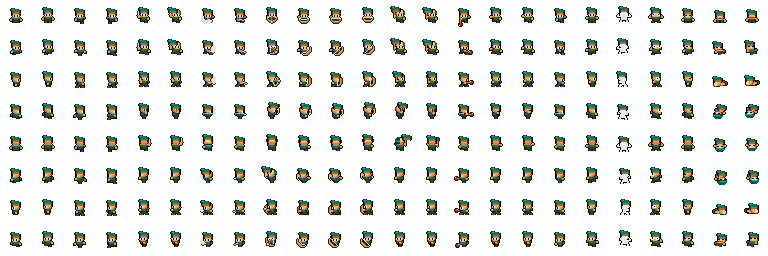
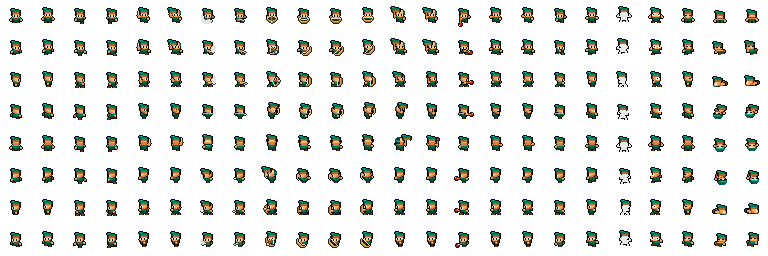
feat(G2): F2 写下的描边规则在 5/10 张表上没成立——132px 变成断言 C，外加它自己漏掉的 12px（断言 D）
`coif_characters.py` 模块 docstring 第 3 条从 F2 起就写着"新加的像素必须自带描边"，
而文件里**没有任何一条断言在查它**。实测它在 5/10 张表上不成立。

## 口径先于数字（这一条比 132 值钱）

裸边只在 **12 个可达帧**（ROWS_USED=(0,1,3) × COLS_USED=(0,1,2,3)）上数，
"外沿"按**本帧 32×32 内**算、越出帧边界也算外沿。
拿整张表扫会得到 9/10 张、**2066 px**——两个数我都复现了。整张表是 768×256 = **192 帧**
（docs/49 §二 写的"768 帧"是错的，768 是像素宽），出货只用 12 帧。
**2066 不是更严格的口径，是量错了对象。**

## 先红后修（判别力证明，不能跳）

未修的树上跑断言 C：**C=132 px / 5 张**，与 docs/49 §二 那张表逐行相同
（Mage-Cyan 72、Archer-Green 24、Mage-Red 12、Warrior-Blue 12、Character-Base 12）。

## 断言 D：C 自己漏掉的一类

C 的"新增像素"限定漏掉了另一类——模板把 base **自己的**描边涂成发色
（阿梅发顶那个"缺口"，#040404 → #54301c，正对着透明），12 px。
alpha 没变所以不算"新增"，但屏幕上一样是没描边的头，而**她同时是 WorldView.FALLBACK_SPRITE**。
⇒ 只按 docs/49 §二 的定义验收，回退皮会带着 12 个裸边过关。

## 剪影：floor 余量是 0，且我确实是照着它挑的画法

最自然的画法（在露出的像素上方补一行描边）会把 **Mage-Cyan ↔ Soldier-Yellow 从 120 压到 96**。
16 种"补描边 / 就地涂色"组合全枚举过：**没有一种能把 floor 抬高**——两对瓶颈是
MC↔SY 与 SB↔SY，而 SB/SY 都不在修复名单上。所以验收 3 只能是"别弄坏"，从来不可能是"改善"。
选中的组合让两对瓶颈**一个像素都没动**（Mage-Cyan 改成就地涂色，alpha 零变化）：

  min 120（并列 2 对，与 F2 交付时同两对） 中位 240→244  最大 480→504
  4 对下降（最低 132 = Character-Base↔Warrior-Blue），19 对上升，22 对不变

⚠ 诚实标注：Character-Base/Warrior-Blue 那两处选 recolor/grow **是为了不新增第三对并列在 120**。
floor 没被突破，但这是照着指标挑的，不是照着画面挑的。

## 眼验（R10）：人看不出来——这是结果不是失败

真机管线出图（docker gamecraft-runner:4.6.2，正午 tick=600，im.size=(1280,768) 两侧一致）：
全屏 1280×768 里**只有 40 个像素变了（0.0041%）**，3 个簇，全部落在画面上那两位（阿本、阿梅）身上。
2× 并排 A/B：**五对我一对都分辨不出来。**8× 下才看得见"多了一圈描边"。

那它买到了什么？按 CI 昼夜门自己打印的世界底色（正午 (134,173,79)）算 WCAG 对比度：
[…]

diff --git a/tools/deprop_characters.py b/tools/deprop_characters.py
@@ -58,6 +58,12 @@ try:
 except ImportError:
     sys.exit("需要 Pillow：pip install pillow")
 
+try:                                    # Windows 控制台默认 GBK ⇒ 第 180 行那句 "✅ 自检A" 会
+    sys.stdout.reconfigure(encoding="utf-8")   # UnicodeEncodeError 退出 1（G1 在本机实测）。
+    sys.stderr.reconfigure(encoding="utf-8")   # 那一句在写文件【之前】，所以本脚本长期是
+except Exception:                              # "跑不起来"而不是"跑了没事"——别把 exit 1 读成幂等。
+    pass
+
 ROOT = os.path.dirname(os.path.dirname(os.path.abspath(__file__)))
 SRC = os.path.join(ROOT, "game", "assets", "art", "library",
                    "puny-characters", "Puny-Characters")
@@ -211,6 +217,13 @@ def main():
         print("\n(--probe：只跑断言，未写文件)")
     else:
         print("\n写出 %d 张 → %s" % (len(results), os.path.relpath(DST, ROOT)))
+        # ⚠ 本脚本产出的是**去道具中间态**（E3），没有 F2/G2 的头发/帽子/描边。
+        #    实测（隔离副本）：裸跑一次会覆盖 pro/ 里 10 张中的 **9 张**，
+        #    只有 Character-Base 幸免（它不在 SHEETS 里）。在补上上面那两行编码修复之前，
+        #    本机是靠第 180 行崩掉才没出事——**那不是保护，那是运气**。
+        print("⚠ 这 %d 张是【去道具中间态】，不含 F2/G2 的发型与描边。"
+              "出货目录请用 `python tools/coif_characters.py` 重建，"
+              "否则 G1 的美术门会红。" % len(results))
 
 
 if __name__ == "__main__":

diff --git a/game/assets/art/pro/README.md b/game/assets/art/pro/README.md
@@ -1,4 +1,4 @@
-# `pro/` — 角色去道具 + 各自轮廓（Wave E · E3 → Wave F · F2）
+# `pro/` — 角色去道具 + 各自轮廓 + 描边闭合（Wave E · E3 → Wave F · F2 → Wave G · G2）
 
 这里的 **10 张 PNG** 是对 CC0 素材包 `puny-characters` 的**改绘衍生**，不是新素材、不是生成图。
 `Art.gd:73-78` 的三级回退第一级就是本目录（`pro/<name>.png` > `library/.../<name>.png`），
@@ -10,6 +10,7 @@
 |---|---|---|
 | **E3**（Wave E） | [`tools/deprop_characters.py`](../../../../tools/deprop_characters.py) | 去道具：alpha 掩膜 + 查表换色 ⇒ 现代小镇便服 |
 | **F2**（Wave F） | [`tools/coif_characters.py`](../../../../tools/coif_characters.py) | 加轮廓：头部复位 + 每人一张发型/帽子模板 |
+| **G2**（Wave G） | 同上 | 补描边：把 F2 自己写下、却没有任何代码在查的那条规则变成**断言 C/D**，并修掉它抓到的 144 px |
 
 `coif_characters.py` **内部调用** `deprop_characters.py`，所以**只跑第二个脚本就能从零重建整个目录**。
 
@@ -49,13 +50,46 @@ F2 把轮廓加回来。三步：
 
 ### 数字（12 个可达帧，`col 0..3 × row {0,1,3}`）
 
-- **剪影两两可分度**：改前 **全部 0**（十张脸逐像素同一个剪影）→ 改后 **最小 120 px、中位 240、最大 480**。
-  最小对是可可（贝雷帽）↔ 老邓/铁牛（毛线帽），以及老海（雨帽）↔ 老邓/铁牛。
+- **剪影两两可分度**：改前 **全部 0**（十张脸逐像素同一个剪影）→ F2 后 **最小 120、中位 240、最大 480**
+  → G2 后 **最小 120、中位 244、最大 504**。
+  **最小值上并列的是两对**（报极值必须连并列一起报，docs/44 §一·六 就是漏了第二对才要更正）：
+  可可（贝雷帽）↔ 老邓/铁牛（毛线帽），以及老海（雨帽）↔ 老邓/铁牛。
+  ⚠ **这个 120 的余量是 0，而且两对都穿过 `Soldier-Yellow`。** G2 实测：按最自然的画法
+  （在露出的像素上方补一行描边）去修可可的贝雷帽，会把可可↔老邓压到 **96**。
+  所以可可那张改成**就地把布料像素涂成描边色**（alpha 一个不动）⇒ 两对瓶颈**一个像素都没动**。
 - **脸的皮肤边界像素**：袍装 187 → **281-319**；Warrior/Soldier **106/110 → 294-318**。
   ⇒ docs/44 §一·五 记的那条**跨全体演员的不对称**（袍装的脸是 Warrior/Soldier 的两倍）**没有了**，
   现在十张全在 **281-319** 之间。唯一下降的是阿梅（408 → 304）——她本来是**光头露全脸**，戴了头发就得让出一些。
 - **头 vs 世界表面 min ΔE00**（口径与 E3 同源）：最小 13.16 → **15.63**（地板抬高），
   最大 27.29 → 21.89（自然发色比饱和兜帽收敛，这是交易不是白赚）。
+
+## G2 做了什么（把 F2 写下的第三条规则变成断言）
+
+`coif_characters.py` 的模块 docstring 第 3 条写着「**新加的像素必须自带描边**」，
+**而文件里没有任何一条断言在查它**——只有断言 A（alpha 外扩 > 0）和 B（剪影可分度）。
+实测它在 **5/10 张表上不成立**。
+
+**口径最要紧**（这一条比数字本身值钱）：裸边只在 **12 个可达帧**上数，
+「外沿」按**本帧 32×32 内**算、越出帧边界也算外沿。
+拿整张表量会得到 **9/10 张、2066 px**——整张表是 768×256 = **192 帧**，出货只用 **12 帧**。
+**2066 不是更严格的口径，是量错了对象。**
+
+| 表 | 可达帧新增 px | C 裸边 | D 被涂掉的描边 |
+|---|---|---|---|
+| `Mage-Cyan`（可可·贝雷帽） | 240 | **72** | 0 |
+| `Archer-Green`（小薇·双马尾） | 408 | 24 | 0 |
+| `Mage-Red`（阿丽·侧马尾） | 276 | 12 | 0 |
+| `Warrior-Blue`（阿本·鸭舌帽） | 264 | 12 | 0 |
+| `Character-Base`（阿梅） | 192 | 12 | **12** |
+| 其余 5 张 | — | 0 | 0 |
+| **合计** | | **132** | **12** |
+
+**132 之外还有 12**：断言 C 的「新增」限定会漏掉一类——模板把 `Character-Base` **自己的**描边
+涂成了发色（阿梅发顶那个"缺口"，`#040404` → `#54301c`，正对着透明）。alpha 没变所以不算新增，
+但屏幕上一样是没描边的头。这一类单列为**断言 D**。**全部 144 px 已修，C=D=0。**
+
+修法二选一，按对剪影的影响挑：**在上方补一行描边**（剪影 +1px/帧）或**就地涂成描边色**（剪影不变）。
+16 种组合全枚举过；选中的那一组让最小对**逐行不变**（见上）。
 
 ## 逐张对照（⚠ 文件名与外观已经对不上）
 
@@ -86,10 +120,20 @@ F2 把轮廓加回来。三步：
 python tools/coif_characters.py              # 从 library/ 全量重建本目录（含 deprop 一步）
 python tools/coif_characters.py --probe      # 只跑断言，不写文件
 python tools/coif_characters.py --metrics    # 断言 + 剪影可分度表 + 脸的皮肤边界表
+python tools/coif_characters.py --negctl     # 负对照：故意破坏描边 ⇒ C/D 必须红（见下）
 python tools/coif_characters.py --preview D  # 改前/改后 12 帧对照图写到目录 D（R10 眼验用）
 
 python tools/deprop_characters.py --probe    # E3 的三条自检（不含 F2 的头）
 ```
+
+**⚠ 不要裸跑 `python tools/deprop_characters.py`。** 实测（隔离副本）：它会覆盖本目录 **10 张中的 9 张**
+（只有 `Character-Base` 幸免，它不在 `SHEETS` 里），把 F2/G2 的头发与描边全部抹掉。
+它产出的是**去道具中间态**。要重建出货目录，跑 `coif_characters.py`（它内部会调用前者）。
+> 在 G2 补上 `sys.stdout.reconfigure` 之前，这个脚本在 Windows（GBK 控制台）上会在**写文件之前**
+> 因 `UnicodeEncodeError` 退出 1 ⇒ 看起来"跑了没事"。**那不是幂等，那是崩得早。**
+
+**`--negctl` 是焊死的负对照**：它给每张表各破坏 1 个 C 类、1 个 D 类像素，两条断言都必须变红并点名到表。
+理由很简单——修完之后 C/D 恒为 0，**一个只见过绿的断言证明不了任何东西**（docs/41 §6）。
 
 **⚠ `deprop_characters.py --probe` 的自检 B（"产物剪影逐像素等于 `Character-Base`"）
 只对它自己的中间产物成立，对本目录的最终产物【故意不成立】**——F2 的全部工作就是让它不成立。
